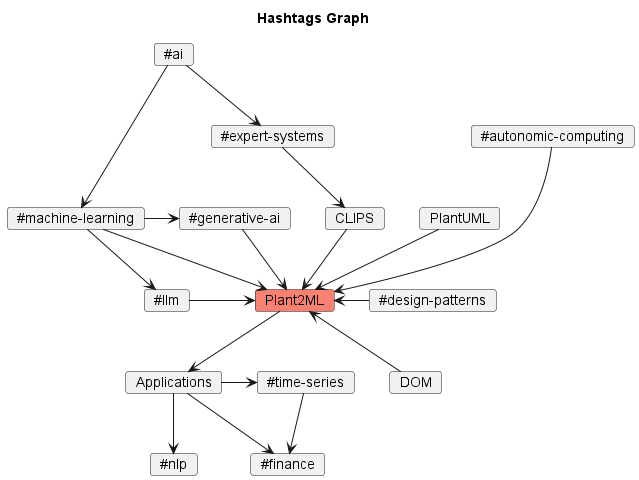
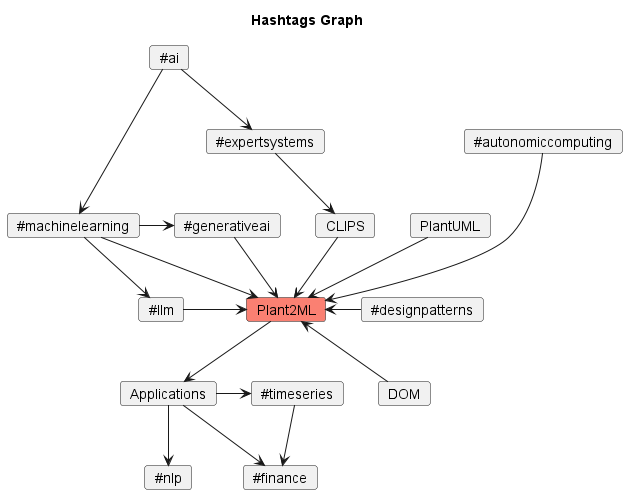
Use non-hyphenated hashtags.

diff --git a/README.md b/README.md
@@ -1,8 +1,8 @@
 # Plant2ML Weekly Highlights
 
-Weekly top #ai and #machine-learning paper highlights.
+Weekly top #ai and #machinelearning paper highlights.
 We ❤ reading and discussing scientific papers, especially at the nexus of: #llm,
-#expert-systems, #auto-ml, #diagrammatic-reasoning and #autonomic-computing with applications in #time-series and #nlp.
+#expertsystems, #automl, #diagrammaticreasoning and #autonomiccomputing with applications in #timeseries and #nlp.
 
 ![Hashtags Graph](./diagrams/hashtags-Hashtags_Graph.png)
 
@@ -25,22 +25,22 @@ Here is the weekly series:
 ## Top References of the Week (March 4 - March 10) - 2024
 | **Reference**                                                                                                                                                                                                            | **Hashtag**                | **Links**                                                                                                |
 |--------------------------------------------------------------------------------------------------------------------------------------------------------------------------------------------------------------------------|----------------------------|----------------------------------------------------------------------------------------------------------|
-| 1) **Transformers for Time-Series Data**                                                                                                                                                                                 | #time-series #transformers | [Blog](https://medium.com/bearingpoint-data-analytics-ai/transformers-for-time-series-data-3fadff9f07d8) 
-| 2) **Bentsen 2022** - Spatio-Temporal Wind Speed Forecasting using Graph Networks and Novel Transformer Architectures                                                                                                    | #time-series #transformers | [Paper](https://arxiv.org/abs/2208.13585) [GitHub](https://github.com/LarsBentsen/FFTransformer.) 
-| 3) **Bentsen 2023** - A Unified Graph Formulation for Spatio-Temporal Wind Forecasting                                                                                                                                   | #time-series #transformers | [Paper](https://www.duo.uio.no/handle/10852/105903) 
-| 4) **AutoML Time Series** - How to Forecast Time Series Data Using any Supervised Learning Model Featurizing time series data into a standard tabular format for classical ML models and improving accuracy using AutoML | #time-series #auto-ml | [Blog](https://towardsdatascience.com/how-to-forecast-time-series-data-using-any-supervised-learning-model-02dd62cd4bda) [GitHub](https://github.com/mturk24/blog_posts/blob/main/time_series_automl/time_series_automl.ipynb) [Kaggle](https://www.kaggle.com/datasets/robikscube/hourly-energy-consumption?select=PJME_hourly.csv)
+| 1) **Transformers for Time-Series Data**                                                                                                                                                                                 | #timeseries #transformers | [Blog](https://medium.com/bearingpoint-data-analytics-ai/transformers-for-time-series-data-3fadff9f07d8) 
+| 2) **Bentsen 2022** - Spatio-Temporal Wind Speed Forecasting using Graph Networks and Novel Transformer Architectures                                                                                                    | #timeseries #transformers | [Paper](https://arxiv.org/abs/2208.13585) [GitHub](https://github.com/LarsBentsen/FFTransformer.) 
+| 3) **Bentsen 2023** - A Unified Graph Formulation for Spatio-Temporal Wind Forecasting                                                                                                                                   | #timeseries #transformers | [Paper](https://www.duo.uio.no/handle/10852/105903) 
+| 4) **AutoML Time Series** - How to Forecast Time Series Data Using any Supervised Learning Model Featurizing time series data into a standard tabular format for classical ML models and improving accuracy using AutoML | #timeseries #automl | [Blog](https://towardsdatascience.com/how-to-forecast-time-series-data-using-any-supervised-learning-model-02dd62cd4bda) [GitHub](https://github.com/mturk24/blog_posts/blob/main/time_series_automl/time_series_automl.ipynb) [Kaggle](https://www.kaggle.com/datasets/robikscube/hourly-energy-consumption?select=PJME_hourly.csv)
 | 5) **ReAct** - Using LangChain ReAct Agents for Answering Multi-hop Questions in RAG Systems. Useful when answering complex queries on internal documents in a step-by-step manner with ReAct and Open AI Tools agents. | #llm | [Blog](https://towardsdatascience.com/using-langchain-react-agents-for-answering-multi-hop-questions-in-rag-systems-893208c1847e)
 | 6) **Yao 2023** - REACT: SYNERGIZING REASONING AND ACTING IN LANGUAGE MODELS | #llm | [Paper](https://arxiv.org/pdf/2210.03629.pdf) [GitHub](https://react-lm.github.io/) [Blog](https://blog.research.google/2022/11/react-synergizing-reasoning-and-acting.html)
 | 7) **TradingGPT** - Discover TradingGPT: Multi-Agent System with Layered Memory and Distinct Characters | #finance #llm | [Blog](https://medium.com/@basics.machinelearning/discover-tradinggpt-multi-agent-system-with-layered-memory-and-distinct-characters-3070684812a8)
 | 8) **Li 2023** - TradingGPT: Multi-Agent System with Layered Memory and Distinct Characters for Enhanced Financial Trading Performance | #finance #llm | [Paper](https://arxiv.org/pdf/2309.03736.pdf)
 
 ## Top References of the Week (February 26 - March 3) - 2024
-| **Reference**                                                                                                                                                                                               | **Hashtag**            | **Links**                                                                                                                                                                                                             |
-|-------------------------------------------------------------------------------------------------------------------------------------------------------------------------------------------------------------|------------------------|-----------------------------------------------------------------------------------------------------------------------------------------------------------------------------------------------------------------------|
-| 1) **Diagramming AI** - Instantly Design and Edit UML & Workflows with AI Discover the power of Diagramming AI. Make complex UML structures and workflow designs simple and efficient.                      | #diagram               | [Website](https://diagrammingai.com/) [Tweet](https://twitter.com/Diagrammin71888)                                                                                                                                    
-| 2) **DSPy** - intro to DSPy: Goodbye Prompting, Hello Programming!                                                                                                                                          | #llm                   | [Blog](https://towardsdatascience.com/intro-to-dspy-goodbye-prompting-hello-programming-4ca1c6ce3eb9) [YouTube](https://www.youtube.com/watch?v=41EfOY0Ldkc)                                                          
-| 3) **Khattab 2023** - DSPy: Compiling Declarative Language Model Calls into Self-Improving Pipelines                                                                                                        | #llm                   | [Paper](https://arxiv.org/abs/2310.03714) [GitHub](https://github.com/stanfordnlp/dspy)                                                                                                                               
-| 4) **White 2023** - A Prompt Pattern Catalog to Enhance Prompt Engineering with ChatGPT                                                                                                                     | #llm #design-patterns  | [Paper](https://arxiv.org/abs/2302.11382)                                                                                                                                                                             
-| 5) **Generative AI Design Patterns:** - A Comprehensive Guide Reference architecture patterns and mental models for working with Large Language Models (LLM’s) Pattern 4) Blending Rules Based & Generative | #design-patterns | [Blog](https://towardsdatascience.com/generative-ai-design-patterns-a-comprehensive-guide-41425a40d7d0#19ee)                                                                                                          | #llm #design-patterns | [Blog](https://towardsdatascience.com/generative-ai-design-patterns-a-comprehensive-guide-41425a40d7d0#19ee)                                                                                                                                                                                                              |
-| 6) **Gilson 2022** - How Well Does ChatGPT Do When Taking the Medical Licensing Exams? The Implications of Large Language Models for Medical Education and Knowledge Assessment                             | #llm #fsm              | [Paper](https://www.researchgate.net/publication/366606688_How_Well_Does_ChatGPT_Do_When_Taking_the_Medical_Licensing_Exams_The_Implications_of_Large_Language_Models_for_Medical_Education_and_Knowledge_Assessment) 
-| 7) **Watsonx** - Approaches in Using Generative AI for Business Automation: The Path to Comprehensive Decision Automation                                                                                   | #llm #expert-systems   | [Blog](https://medium.com/@pierrefeillet/approaches-in-using-generative-ai-for-business-automation-the-path-to-comprehensive-decision-3dd91c57e38f)                                                                   
+| **Reference**                                                                                                                                                                                               | **Hashtag**          | **Links**                                                                                                                                                                                                             |
+|-------------------------------------------------------------------------------------------------------------------------------------------------------------------------------------------------------------|----------------------|-----------------------------------------------------------------------------------------------------------------------------------------------------------------------------------------------------------------------|
+| 1) **Diagramming AI** - Instantly Design and Edit UML & Workflows with AI Discover the power of Diagramming AI. Make complex UML structures and workflow designs simple and efficient.                      | #diagram             | [Website](https://diagrammingai.com/) [Tweet](https://twitter.com/Diagrammin71888)                                                                                                                                    
+| 2) **DSPy** - intro to DSPy: Goodbye Prompting, Hello Programming!                                                                                                                                          | #llm                 | [Blog](https://towardsdatascience.com/intro-to-dspy-goodbye-prompting-hello-programming-4ca1c6ce3eb9) [YouTube](https://www.youtube.com/watch?v=41EfOY0Ldkc)                                                          
+| 3) **Khattab 2023** - DSPy: Compiling Declarative Language Model Calls into Self-Improving Pipelines                                                                                                        | #llm                 | [Paper](https://arxiv.org/abs/2310.03714) [GitHub](https://github.com/stanfordnlp/dspy)                                                                                                                               
+| 4) **White 2023** - A Prompt Pattern Catalog to Enhance Prompt Engineering with ChatGPT                                                                                                                     | #llm #designpatterns | [Paper](https://arxiv.org/abs/2302.11382)                                                                                                                                                                             
+| 5) **Generative AI Design Patterns:** - A Comprehensive Guide Reference architecture patterns and mental models for working with Large Language Models (LLM’s) Pattern 4) Blending Rules Based & Generative | #designpatterns | [Blog](https://towardsdatascience.com/generative-ai-design-patterns-a-comprehensive-guide-41425a40d7d0#19ee)                                                                                                          | #llm #design-patterns | [Blog](https://towardsdatascience.com/generative-ai-design-patterns-a-comprehensive-guide-41425a40d7d0#19ee)                                                                                                                                                                                                              |
+| 6) **Gilson 2022** - How Well Does ChatGPT Do When Taking the Medical Licensing Exams? The Implications of Large Language Models for Medical Education and Knowledge Assessment                             | #llm #fsm            | [Paper](https://www.researchgate.net/publication/366606688_How_Well_Does_ChatGPT_Do_When_Taking_the_Medical_Licensing_Exams_The_Implications_of_Large_Language_Models_for_Medical_Education_and_Knowledge_Assessment) 
+| 7) **Watsonx** - Approaches in Using Generative AI for Business Automation: The Path to Comprehensive Decision Automation                                                                                   | #llm #expertsystems | [Blog](https://medium.com/@pierrefeillet/approaches-in-using-generative-ai-for-business-automation-the-path-to-comprehensive-decision-3dd91c57e38f)                                                                   
